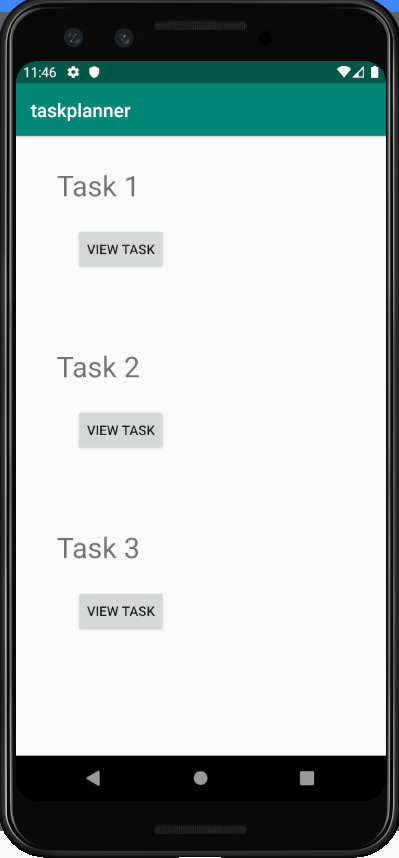
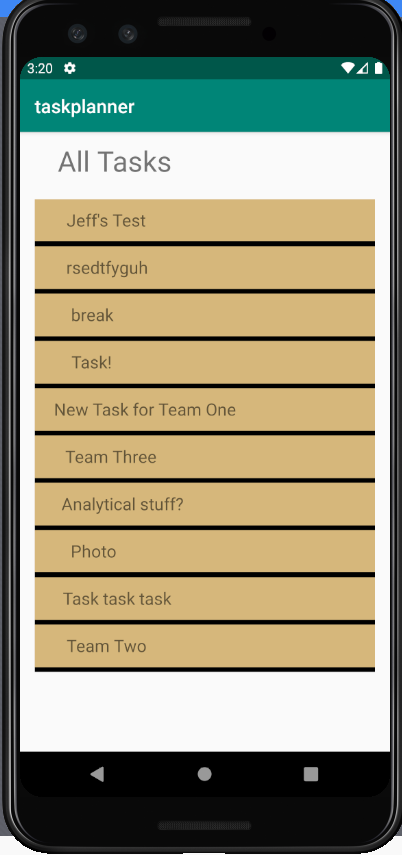
Updated README and pictures

diff --git a/app/src/main/java/com/zaffierce/taskplanner/MainActivity.java b/app/src/main/java/com/zaffierce/taskplanner/MainActivity.java
@@ -199,6 +199,7 @@ public class MainActivity extends AppCompatActivity {
 
         pinpointManager.getSessionClient().stopSession();
         pinpointManager.getAnalyticsClient().submitEvents();
+
     }
 
 

diff --git a/README.md b/README.md
@@ -1,15 +1,17 @@
 # Planner - Android Application
 
 ### What is this?
-This Android Application was created to assist users with creating and tracking tasks.
+This Android Application was created to assist users with creating and tracking tasks.  This utilizes AWS Amplify, Cognito, S3 and Pinpoint.
 
 ### How to run?
-Launch using Android Studio.
+Launch using Android Studio, this also requires the installation of Amplify.  Please view AWS Amplify documentation if you do not have that installed.  If you do have Amplify installed, run `amplify init` and then `amplify push`
 
 ### Features
-- A user is able to set their username
-- Create a task
+- A user can create an account and login
+- Create a task, attach it to a team and also upload a picture
 - View personal tasks
+- View all tasks
+- Gets current location (Currently nothing is being done with this feature though)
 
 ### Screenshots
 - Home page
